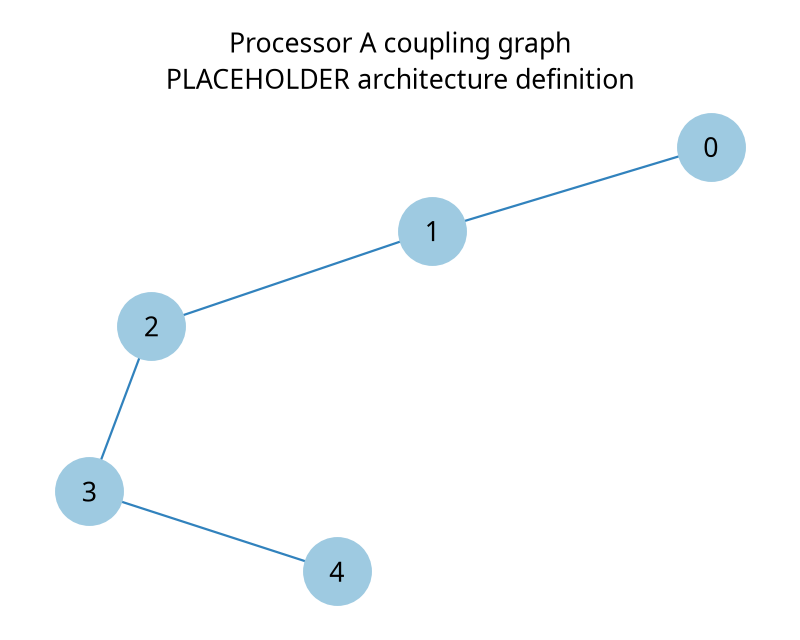
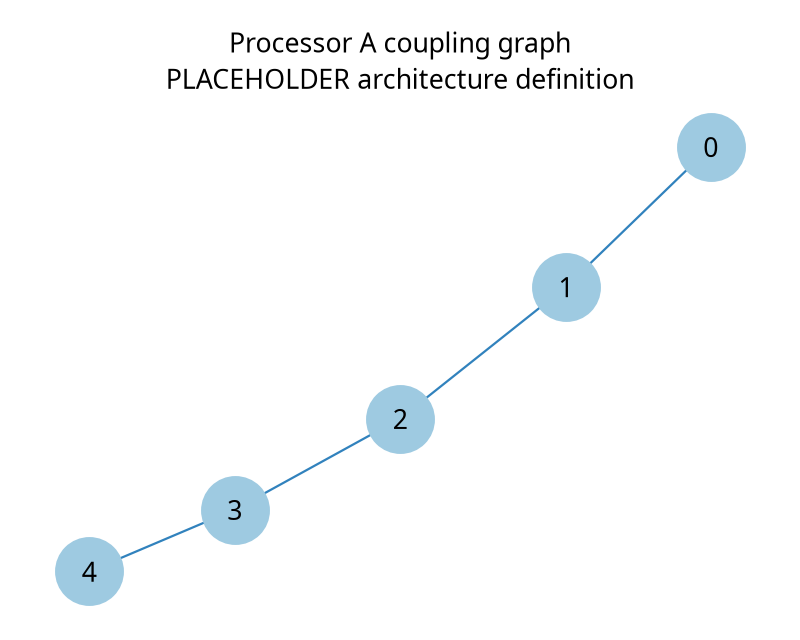
Stabilize figures and refresh measured outputs

diff --git a/src/visualization.py b/src/visualization.py
@@ -9,7 +9,7 @@ def make_figures(processors, logical, compiled, rows, output_dir='results/figure
     out = Path(output_dir); out.mkdir(parents=True, exist_ok=True)
     for key, proc in processors.items():
         g = nx.Graph(); g.add_nodes_from(range(proc['num_qubits'])); g.add_edges_from(proc['coupling_map'])
-        plt.figure(figsize=(5,4)); nx.draw_networkx(g, with_labels=True, node_color='#9ecae1', node_size=900, edge_color='#3182bd')
+        plt.figure(figsize=(5,4)); pos = nx.spring_layout(g, seed=42); nx.draw_networkx(g, pos=pos, with_labels=True, node_color='#9ecae1', node_size=900, edge_color='#3182bd')
         plt.title(f"{proc['name']} coupling graph\nPLACEHOLDER architecture definition")
         plt.axis('off'); plt.tight_layout(); plt.savefig(out/f'{key}_graph.png', dpi=160); plt.close()
     circuit_drawer(logical, output='mpl', filename=str(out/'logical_vs_transpiled.png'), style={'backgroundcolor':'white'})
